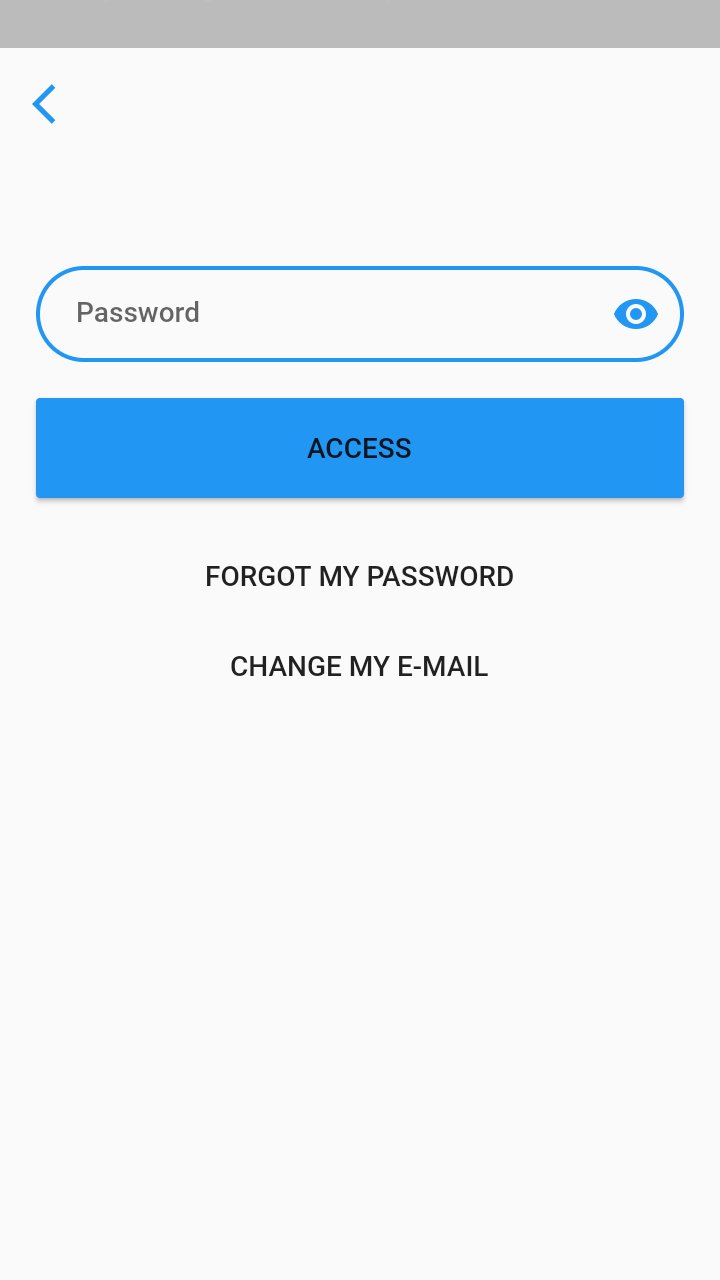
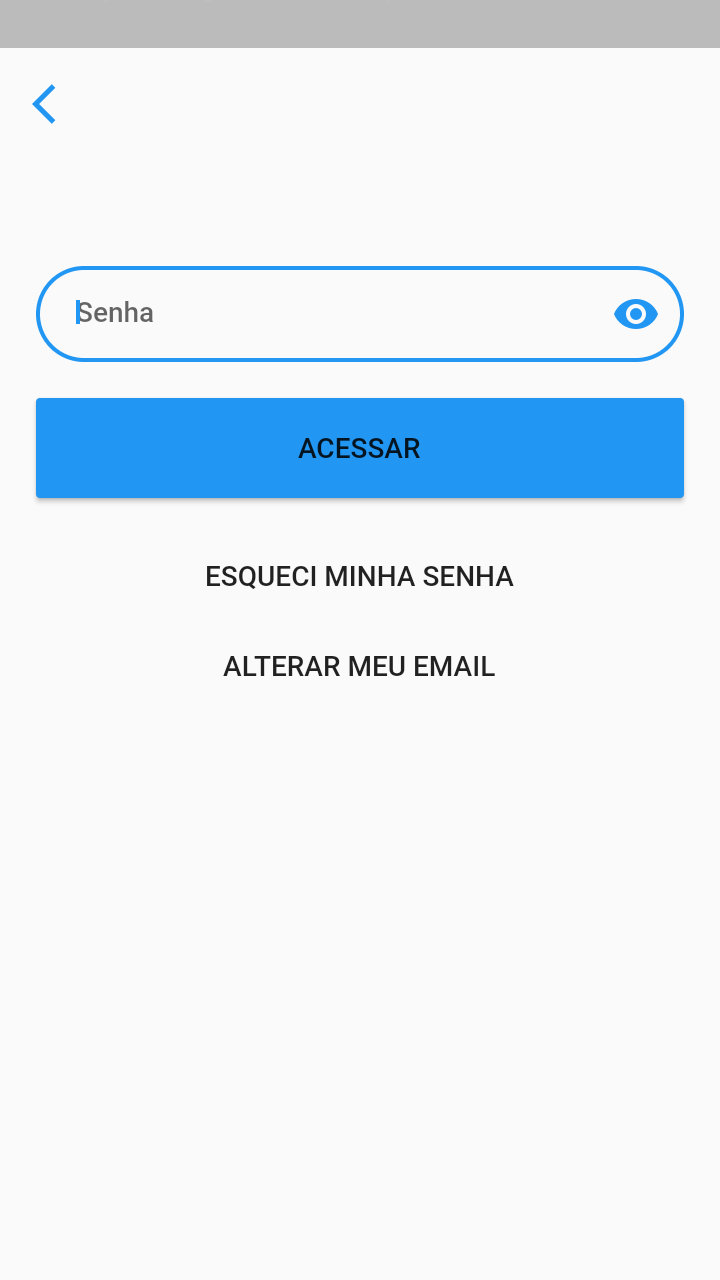
Localizations.override

diff --git a/android/app/src/main/kotlin/com/example/vethx_login/MainActivity.kt b/android/app/src/main/kotlin/com/example/vethx_login/MainActivity.kt
@@ -1,6 +1,46 @@
 package br.tech.vethx.beta
 
-import io.flutter.embedding.android.FlutterActivity
+import io.flutter.embedding.android.FlutterFragmentActivity
+import io.flutter.embedding.engine.FlutterEngine
+import io.flutter.plugins.GeneratedPluginRegistrant
 
-class MainActivity: FlutterActivity() {
+class MainActivity: FlutterFragmentActivity() {
+    override fun configureFlutterEngine(flutterEngine: FlutterEngine) {
+        GeneratedPluginRegistrant.registerWith(flutterEngine)
+    }
 }
+
+// import io.flutter.embedding.android.FlutterFragmentActivity
+// import io.flutter.embedding.engine.FlutterEngine
+// import io.flutter.plugins.GeneratedPluginRegistrant
+// import android.content.Context
+// class MainActivity: FlutterFragmentActivity() {
+//     override fun configureFlutterEngine(flutterEngine: FlutterEngine) {
+//         GeneratedPluginRegistrant.registerWith(flutterEngine)
+//     }
+// }
+
+// import android.content.Context
+// import io.flutter.embedding.android.FlutterActivity
+// import io.flutter.embedding.android.FlutterFragmentActivity
+// import io.flutter.embedding.engine.FlutterEngine
+// import io.flutter.plugins.GeneratedPluginRegistrant
+
+// class MainActivity: FlutterFragmentActivity() {
+//     companion object {
+//         var engine: FlutterEngine? = null
+//         fun provideEngine(context: Context): FlutterEngine {
+//             val eng = engine ?: FlutterEngine(context, emptyArray(), true, false)
+//             engine = eng
+//             return eng
+//         }
+//     }
+
+//     override fun configureFlutterEngine(flutterEngine: FlutterEngine) {
+//         GeneratedPluginRegistrant.registerWith(flutterEngine)
+//     }
+
+//     override fun provideFlutterEngine(context: Context): FlutterEngine? {
+//         return provideEngine(this)
+//     }
+// }

diff --git a/lib/features/signin/presentation/widgets/login/sign_in_loading.widget.dart b/lib/features/signin/presentation/widgets/login/sign_in_loading.widget.dart
@@ -17,26 +17,22 @@ class SignInLoader extends StatelessWidget {
   @override
   Widget build(BuildContext context) {
     final style = Theme.of(context).textTheme.headline3;
-    return Localizations.override(
-      context: context,
-      locale: const Locale('en'),
-      child: Builder(builder: (context) {
-        return SizedBox(
-          height: size,
-          child: Center(
-            child: loading
-                ? const GenericProgressIndicator()
-                : Text(
-                    title ??
-                        context.l10n
-                            .signin_page_options_title, //context.l10n.signin_page_options_title,
-                    textAlign: TextAlign.center,
-                    style: style,
-                  ),
-          ),
-        );
-      }),
-    );
+    return Builder(builder: (context) {
+      return SizedBox(
+        height: size,
+        child: Center(
+          child: loading
+              ? const GenericProgressIndicator()
+              : Text(
+                  title ??
+                      context.l10n
+                          .signin_page_options_title, //context.l10n.signin_page_options_title,
+                  textAlign: TextAlign.center,
+                  style: style,
+                ),
+        ),
+      );
+    });
     // Todo(v): Colocar o LOGO Veth-X
     // return Image.asset(
     //   assetsLogoSigavi,
